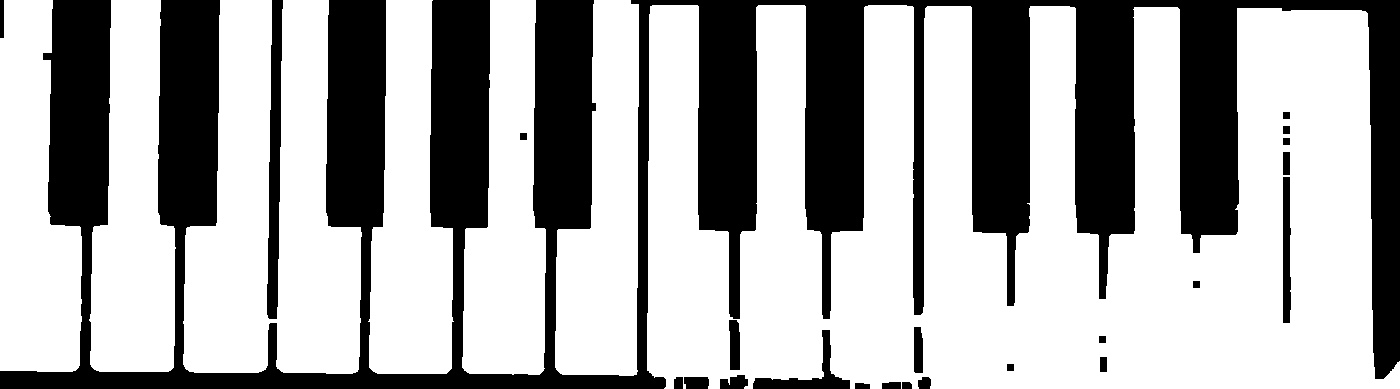
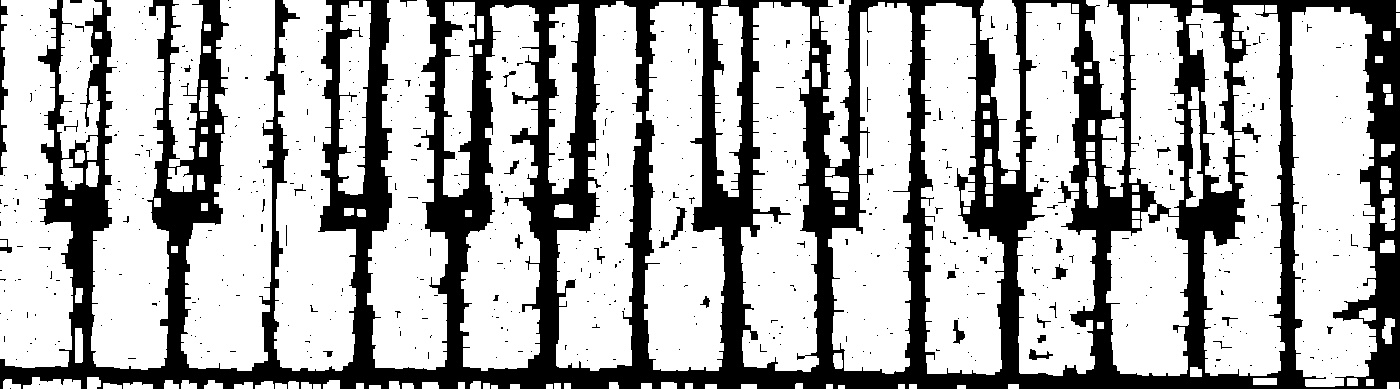
detecting all white keys

diff --git a/src/img_proc.py b/src/img_proc.py
@@ -83,12 +83,14 @@ class ImgProc:
             # Draw the bounding box on the original image
             cv2.rectangle(img, (x, y), (x + w, y + h), (0, 255, 0), 2)
 
-        _,thresh2 = cv2.threshold(gray,150,255,cv2.THRESH_BINARY)
+        thresh2 = cv2.adaptiveThreshold(gray,255,cv2.ADAPTIVE_THRESH_MEAN_C,cv2.THRESH_BINARY,5,2)
         cv2.imwrite('img/results/thresh.jpg',thresh2)
-        dilation = cv2.erode(thresh2,kernel,iterations = 1)
+        kernel = np.ones((7, 7), np.uint8)
+        #dilation = cv2.erode(thresh2,kernel,iterations = 3)
+        dilation = cv2.morphologyEx(thresh2,cv2.MORPH_OPEN,kernel)
         cv2.imwrite('img/results/open.jpg',dilation)
         contours, _ = cv2.findContours(dilation, cv2.RETR_EXTERNAL, cv2.CHAIN_APPROX_SIMPLE)
-        min_contour_area = 0  # adjust as needed
+        min_contour_area = 5000  # adjust as needed
         valid_contours = [contour for contour in contours if cv2.contourArea(contour) > min_contour_area]
 
         for contour in valid_contours:
